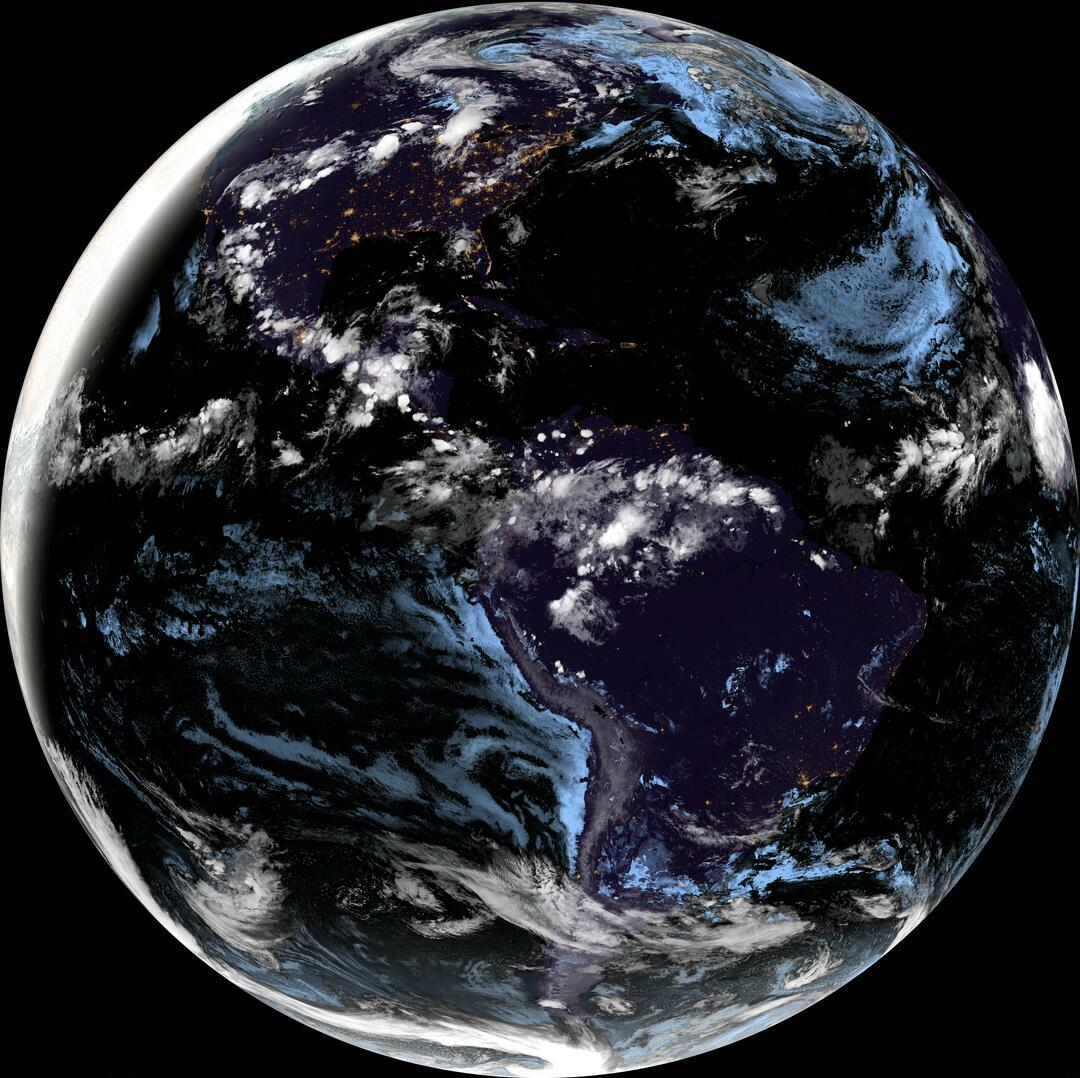
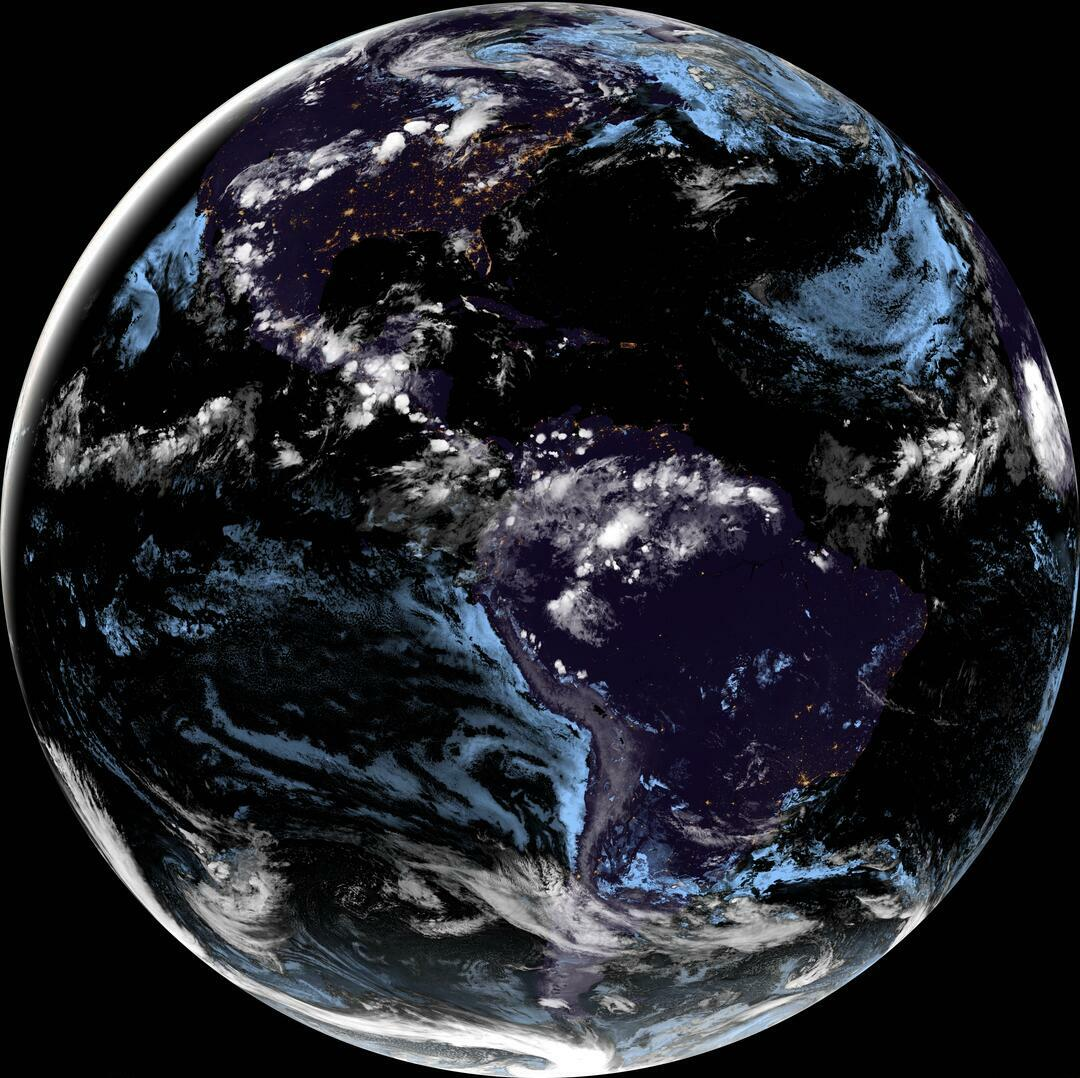
update images

diff --git a/index.html b/index.html
@@ -97,7 +97,7 @@
   </div>
 
   <div class="colophon">
-    <p>Last updated <date datetime="2022-07-24T02:46:51.487Z">2022-07-24T02:46:51.487Z</date>. Updates every hour.</p>
+    <p>Last updated <date datetime="2022-07-24T03:30:32.417Z">2022-07-24T03:30:32.417Z</date>. Updates every hour.</p>
     <p>View source on <a href="https://github.com/ungoldman/latest-earth">github</a>.</p>
   </div>
 
